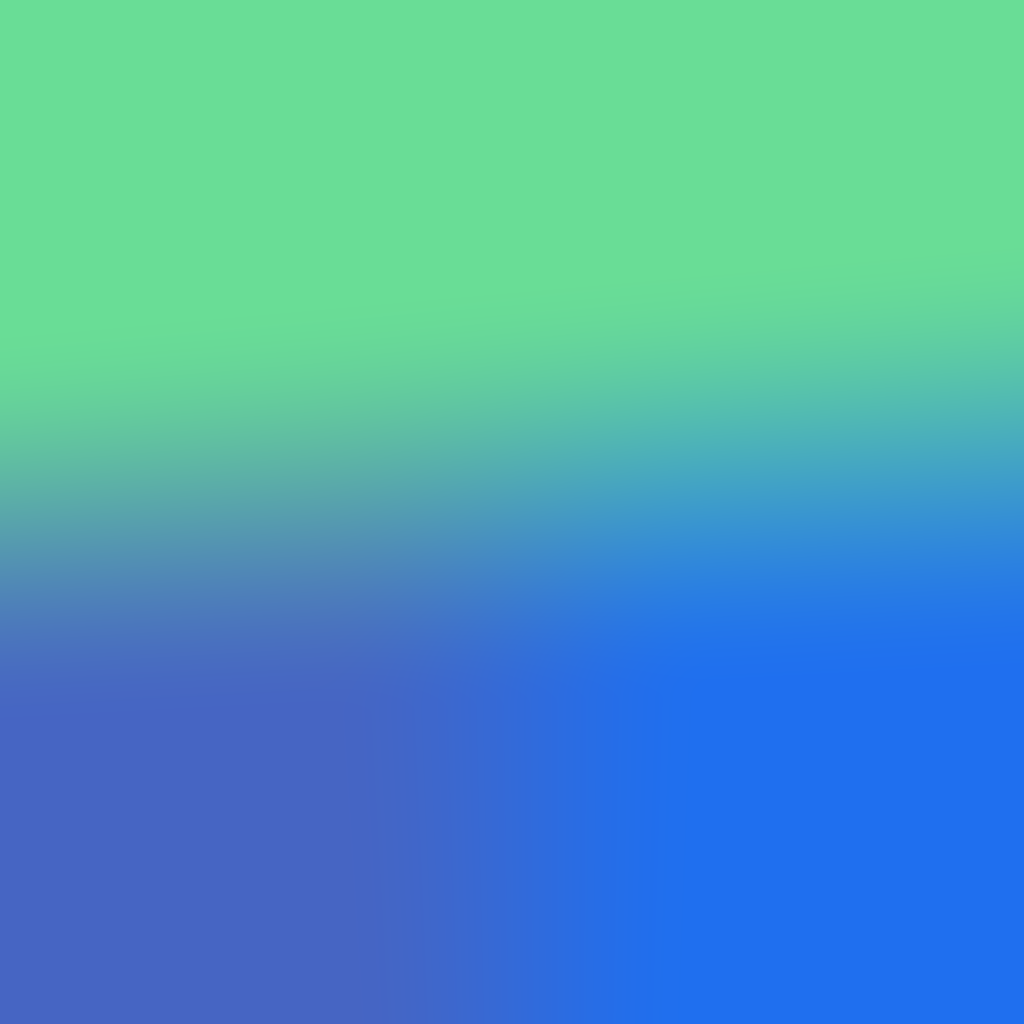
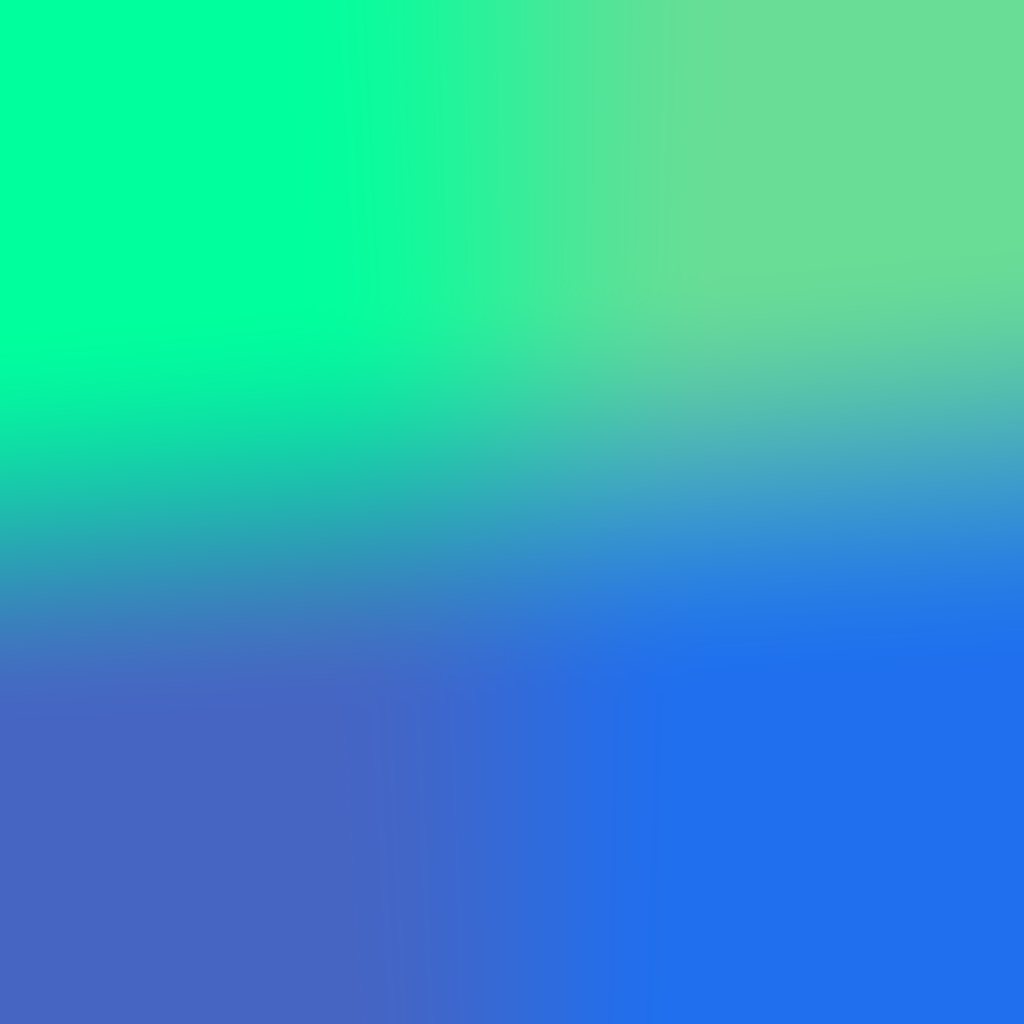
fix: Atualizar cores de fundo e adicionar funcionalidade de cópia de hex

diff --git a/src/components/sections/BackgroundGenerator.tsx b/src/components/sections/BackgroundGenerator.tsx
@@ -7,8 +7,8 @@ import {
 } from '@editframe/elements';
 import { SwirledMesh } from './SwirledMesh';
 
-const DEFAULT_COLORS = {
-    tl: '#69dd96',
+export const BACKGROUND_COLORS = {
+    tl: '#00ff9d',
     tr: '#69dd96',
     bl: '#4665c3',
     br: '#1f6fef'
@@ -335,10 +335,10 @@ function MeshCanvas({ width, height }: { width: number; height: number }) {
         // Color mapping matches meshgradient.com's `draw()`:
         //   u_color1 = bl -> P0, u_color2 = br -> P1,
         //   u_color3 = tl -> P2, u_color4 = tr -> P3.
-        setColor('u_color0', DEFAULT_COLORS.bl);
-        setColor('u_color1', DEFAULT_COLORS.br);
-        setColor('u_color2', DEFAULT_COLORS.tl);
-        setColor('u_color3', DEFAULT_COLORS.tr);
+        setColor('u_color0', BACKGROUND_COLORS.bl);
+        setColor('u_color1', BACKGROUND_COLORS.br);
+        setColor('u_color2', BACKGROUND_COLORS.tl);
+        setColor('u_color3', BACKGROUND_COLORS.tr);
 
         gl.viewport(0, 0, canvas.width, canvas.height);
         gl.clearColor(0, 0, 0, 1);

diff --git a/src/i18n/pt.ts b/src/i18n/pt.ts
@@ -177,6 +177,16 @@ export const pt: En = {
             downloading: 'Gerando…',
             hint: 'O gradiente usa a paleta oficial da LuzTech. A saída é um PNG no tamanho exato em pixels que você escolher.'
         },
+        colors: {
+            title: 'Cores',
+            hint: 'Os quatro cantos usam estas cores fixas da marca. Clique em qualquer amostra para copiar o valor hex.',
+            copy: 'Copiar hex',
+            copied: 'Copiado',
+            topLeft: 'Superior esquerdo',
+            topRight: 'Superior direito',
+            bottomLeft: 'Inferior esquerdo',
+            bottomRight: 'Inferior direito'
+        },
         swirled: {
             hint: 'Um mesh suave e fluido com um leve espiral. Ajuste a intensidade a gosto — a paleta permanece fiel à marca.',
             distortion: 'Distorção',

diff --git a/src/i18n/en.ts b/src/i18n/en.ts
@@ -175,6 +175,16 @@ export const en = {
             downloading: 'Generating…',
             hint: 'The gradient uses the official LuzTech palette. Output is a PNG at the exact pixel size you choose.'
         },
+        colors: {
+            title: 'Colors',
+            hint: 'The four corners use these fixed brand colors. Click any swatch to copy its hex value.',
+            copy: 'Copy hex',
+            copied: 'Copied',
+            topLeft: 'Top left',
+            topRight: 'Top right',
+            bottomLeft: 'Bottom left',
+            bottomRight: 'Bottom right'
+        },
         swirled: {
             hint: 'A gentle, flowing mesh with a soft swirl. Adjust the intensity to taste — the palette stays on-brand.',
             distortion: 'Distortion',
